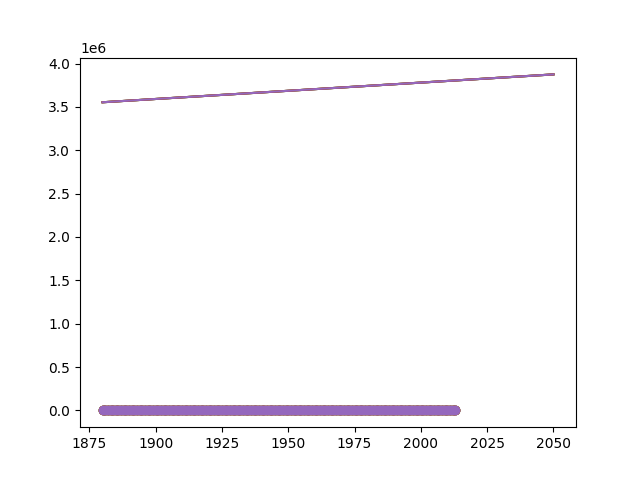
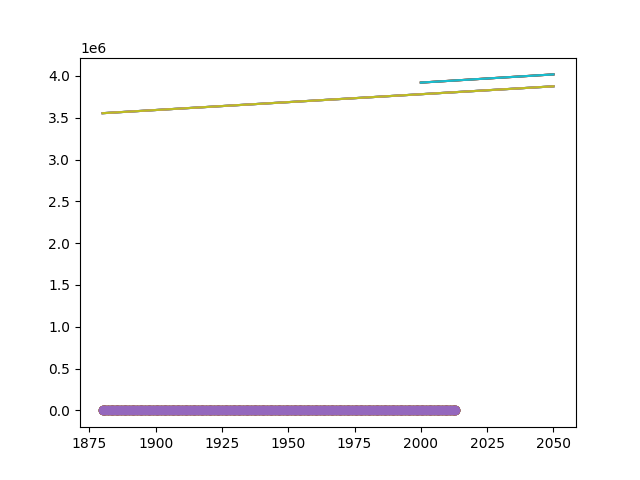
Feat: create second line

diff --git a/sea_level_predictor.py b/sea_level_predictor.py
@@ -18,7 +18,13 @@ def draw_plot():
     plt.plot(x_fit,y_fit)
 
     # Create second line of best fit
+    df_b = df.loc[df['Year'] >= 2000]
 
+    fit_2 = linregress(x=df_b['CSIRO Adjusted Sea Level'], y=df_b['Year'])
+    x_fit_2 = np.arange(df_b['Year'].min(), 2051,1)
+    y_fit_2 = fit_2.slope + fit_2.intercept*x_fit_2
+
+    plt.plot(x_fit_2,y_fit_2)
 
     # Add labels and title
 
